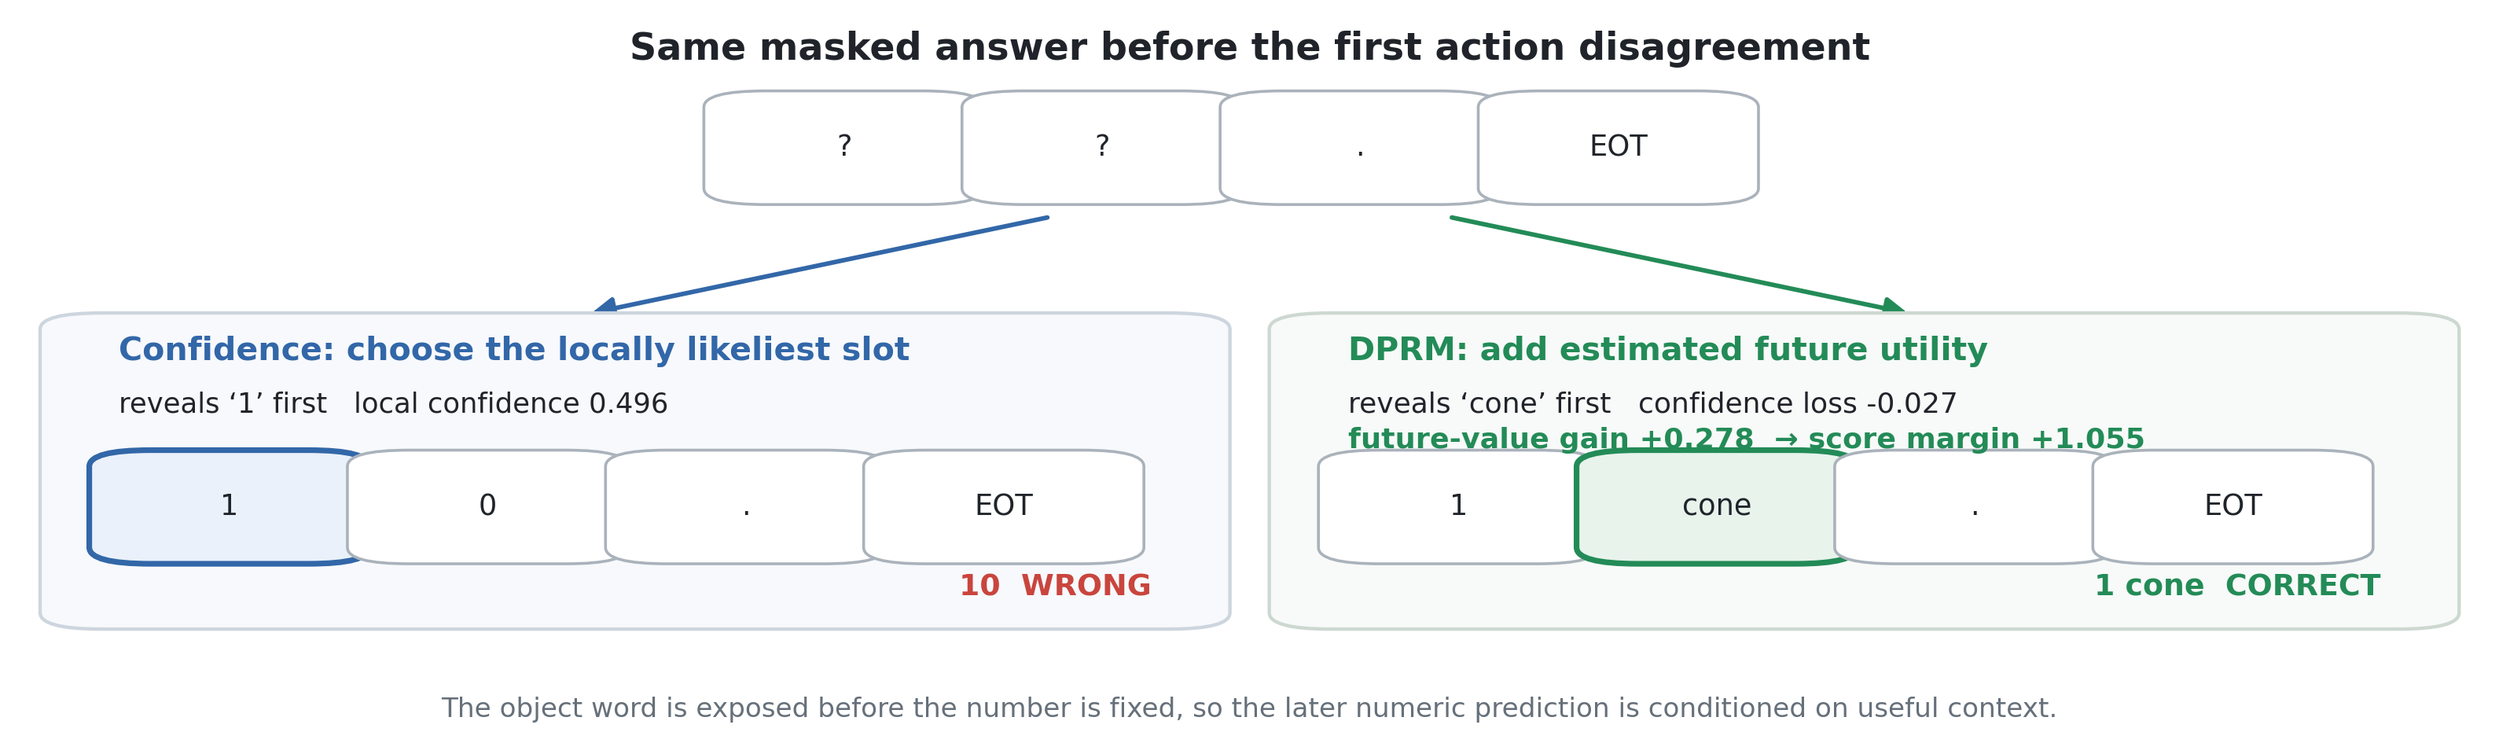
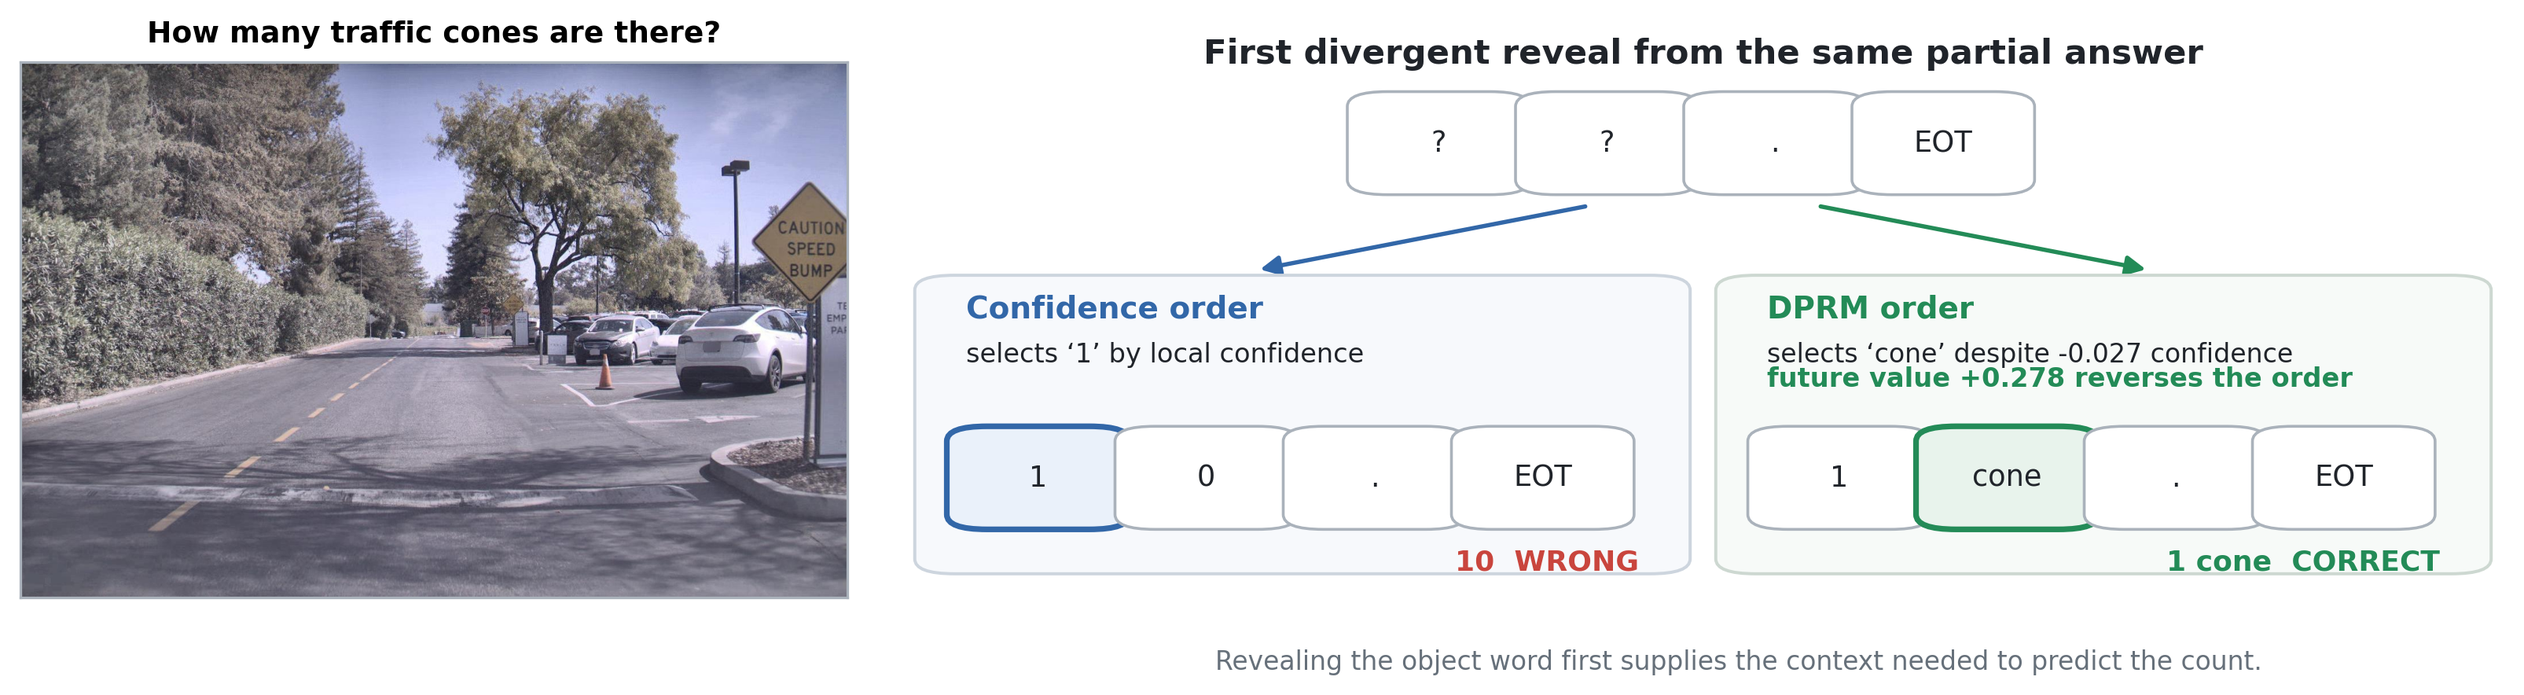
Release DPRM TPAMI code, results, and project page

diff --git a/docs/index.html b/docs/index.html
@@ -32,6 +32,8 @@
         <p class="eyebrow">Process reward models for masked diffusion</p>
         <h1>DPRM</h1>
         <p class="offer">A Plug-in Token-Ordering Module for Diffusion Language Models</p>
+        <p class="authors">Dake Bu · Wei Huang · Andi Han · Si Wu · Hau-San Wong · Qingfu Zhang · Taiji Suzuki · Atsushi Nitanda</p>
+        <p class="affiliations">City University of Hong Kong · RIKEN AIP · The Institute of Statistical Mathematics · University of Sydney · South China University of Technology · CFAR and IHPC, A*STAR · The University of Tokyo · Nanyang Technological University</p>
         <p class="lead">Keep the denoiser and token sampler. Change which position is committed next using terminal utility.</p>
         <div class="hero-actions">
           <a class="button primary" href="https://arxiv.org/abs/2604.24357"><i data-lucide="file-text"></i>Paper</a>
@@ -58,33 +60,18 @@
       </div>
 
       <div class="case-tabs" role="tablist" aria-label="Omni mechanism cases">
-        <button class="case-tab active" role="tab" aria-selected="true" data-case="beach">Beach &amp; kittens</button>
-        <button class="case-tab" role="tab" aria-selected="false" data-case="crowd">Crowd &amp; owls</button>
-        <button class="case-tab" role="tab" aria-selected="false" data-case="chairs">Chairs &amp; lecture</button>
-        <button class="case-tab" role="tab" aria-selected="false" data-case="robots">Robots &amp; armadillo</button>
-        <button class="case-tab" role="tab" aria-selected="false" data-case="avocado">Avocado &amp; gym</button>
+        <button class="case-tab active" role="tab" aria-selected="true" data-case="beach">Three children on a beach</button>
+        <button class="case-tab" role="tab" aria-selected="false" data-case="owls">Owl Family</button>
       </div>
 
       <div class="visual-workspace" tabindex="0" aria-label="Scrollable Omni-Diffusion intermediate-state comparison">
         <figure class="case-panel active" data-panel="beach">
-          <img src="assets/omni-beach-kittens.png" alt="Confidence and DPRM trajectories for beach children and a boy playing a flute for kittens.">
-          <figcaption><strong>DPRM commits an unfilled region that preserves object separation.</strong> The later canvas resolves three children and their toys, and retains the boy, flute, and kittens as separate entities.</figcaption>
+          <img src="assets/omni_beach_mechanism.webp" alt="Confidence and DPRM trajectories for three children playing on a beach.">
+          <figcaption><strong>DPRM commits an unfilled beach region that preserves object separation.</strong> The later canvas resolves three children and their toys while improving CLIP-L/14 from 0.277 to 0.331 and CLIP-B/32 from 0.329 to 0.347.</figcaption>
         </figure>
-        <figure class="case-panel" data-panel="crowd" hidden>
-          <img src="assets/omni-crowd-owls.png" alt="Confidence and DPRM trajectories for a crowd under fireworks and an owl family.">
-          <figcaption><strong>DPRM opens a missing spatial region instead of reinforcing an already confident object.</strong> Separate people remain beneath the fireworks and the owl family retains three bodies.</figcaption>
-        </figure>
-        <figure class="case-panel" data-panel="chairs" hidden>
-          <img src="assets/omni-chairs-donkey.png" alt="Confidence and DPRM trajectories for three chairs and a donkey lecture.">
-          <figcaption><strong>DPRM establishes a second support and a foreground-background boundary.</strong> Three chair silhouettes remain distinct; the lecturer separates from the audience.</figcaption>
-        </figure>
-        <figure class="case-panel" data-panel="robots" hidden>
-          <img src="assets/omni-robots-armadillo.png" alt="Confidence and DPRM trajectories for robot soccer and an armadillo playing bagpipes.">
-          <figcaption><strong>DPRM anchors the relation-bearing region.</strong> It preserves the pass between two robots and binds the bagpipe to the armadillo rather than merging attributes.</figcaption>
-        </figure>
-        <figure class="case-panel" data-panel="avocado" hidden>
-          <img src="assets/omni-avocado-rat.png" alt="Confidence and DPRM trajectories for an avocado armchair and a rat working out.">
-          <figcaption><strong>DPRM preserves the structural boundary needed by the prompt.</strong> The chair keeps its seat and avocado contour; the gym scene keeps the foreground equipment.</figcaption>
+        <figure class="case-panel" data-panel="owls" hidden>
+          <img src="assets/omni_owl_family_mechanism.webp" alt="Confidence and DPRM trajectories for an owl family in a forest.">
+          <figcaption><strong>DPRM commits a peripheral body region and separates the owl family.</strong> CLIP-L/14 rises from 0.205 to 0.280 and CLIP-B/32 rises from 0.263 to 0.321.</figcaption>
         </figure>
       </div>
 
@@ -99,17 +86,8 @@
         <h3>Four-policy image gallery</h3>
         <p>Random, Omni default, a deterministic uniform action, and DPRM use matched prompts and seeds. Every displayed DPRM result improves both CLIP encoders over Omni default; the gallery is separate from controller selection.</p>
       </div>
-      <div class="gallery-tabs" role="tablist" aria-label="Omni qualitative gallery pages">
-        <button class="omni-gallery-tab active" role="tab" aria-selected="true" data-omni-gallery="1">Gallery 1</button>
-        <button class="omni-gallery-tab" role="tab" aria-selected="false" data-omni-gallery="2">Gallery 2</button>
-        <button class="omni-gallery-tab" role="tab" aria-selected="false" data-omni-gallery="3">Gallery 3</button>
-        <button class="omni-gallery-tab" role="tab" aria-selected="false" data-omni-gallery="4">Gallery 4</button>
-      </div>
       <div class="gallery-workspace omni-gallery-workspace" tabindex="0" aria-label="Scrollable four-policy Omni-Diffusion gallery">
-        <figure class="omni-gallery-panel active" data-omni-panel="1"><img src="assets/omni_qualitative_gallery_1.webp" alt="Four-policy Omni comparisons for a treasure chest, hamster dragon, badger, and pig."></figure>
-        <figure class="omni-gallery-panel" data-omni-panel="2" hidden><img src="assets/omni_qualitative_gallery_2.webp" alt="Four-policy Omni comparisons for a framed car painting, voxel capybara, volcano, and astronaut dolphin."></figure>
-        <figure class="omni-gallery-panel" data-omni-panel="3" hidden><img src="assets/omni_qualitative_gallery_3.webp" alt="Four-policy Omni comparisons for a Corvette, gecko conductor, vase, and tiger corral."></figure>
-        <figure class="omni-gallery-panel" data-omni-panel="4" hidden><img src="assets/omni_qualitative_gallery_4.webp" alt="Four-policy Omni comparisons for a balloon, gym rat, antique car, and tuxedo tiger."></figure>
+        <figure class="omni-gallery-panel active"><img src="assets/omni_curated_four_policy.webp" alt="Four-policy Omni comparisons for a pig, volcano, yellow Corvette, and hot-air balloon."></figure>
       </div>
     </section>
 

diff --git a/docs/site.css b/docs/site.css
@@ -73,6 +73,8 @@ h1, h2 { font-family: "Source Serif 4", Georgia, serif; letter-spacing: 0; }
 h3 { margin: 0; font: 700 30px/1.12 "Source Serif 4", Georgia, serif; letter-spacing: 0; }
 h1 { margin: 0; font-size: clamp(68px, 9vw, 124px); line-height: 0.9; }
 .offer { max-width: 560px; margin: 20px 0 0; font: 600 25px/1.18 "Source Serif 4", Georgia, serif; }
+.authors { max-width: 610px; margin: 18px 0 0; font-size: 13px; font-weight: 700; line-height: 1.55; }
+.affiliations { max-width: 610px; margin: 7px 0 0; color: var(--muted); font-size: 10px; line-height: 1.5; }
 .lead { max-width: 530px; margin: 20px 0 0; color: var(--muted); font-size: 17px; line-height: 1.55; }
 .hero-actions { display: flex; flex-wrap: wrap; gap: 9px; margin-top: 28px; }
 .button {

diff --git a/docs/site.js b/docs/site.js
@@ -33,7 +33,6 @@ function bindTabs(buttonSelector, panelSelector, buttonKey, panelKey, workspaceS
 
 document.addEventListener("DOMContentLoaded", () => {
   bindTabs(".case-tab", ".case-panel", "case", "panel", ".visual-workspace");
-  bindTabs(".omni-gallery-tab", ".omni-gallery-panel", "omniGallery", "omniPanel", ".omni-gallery-workspace");
   bindTabs(".llada-gallery-tab", ".llada-gallery-panel", "lladaGallery", "lladaPanel", ".llada-gallery-workspace");
   bindTabs(".host-tab", ".host-panel", "host", "hostPanel");
   if (window.lucide) window.lucide.createIcons();

diff --git a/integrations/omni_diffusion/matched/scripts/build_omni_review_site.py b/integrations/omni_diffusion/matched/scripts/build_omni_review_site.py
@@ -1,0 +1,114 @@
+#!/usr/bin/env python3
+"""Build a local, lazy-loaded review page for all frozen Omni comparisons."""
+
+from __future__ import annotations
+
+import argparse
+import hashlib
+import html
+import json
+from pathlib import Path
+from typing import Any
+
+
+METHODS = ["confidence", "step96_q0.70", "step96_q0.85", "step96_q0.90", "step96_q0.95"]
+SALT = "uniform_gallery_v1"
+
+
+def load(path: Path) -> Any:
+    return json.loads(path.read_text(encoding="utf-8"))
+
+
+def key(row: dict[str, Any]) -> tuple[str, int]:
+    return str(row["prompt"]), int(row["seed"])
+
+
+def uniform_method(prompt: str, seed: int) -> str:
+    digest = hashlib.sha256(f"{prompt}|{seed}|{SALT}".encode()).hexdigest()
+    return METHODS[int(digest, 16) % len(METHODS)]
+
+
+def resolve(item: dict[str, Any], root: Path) -> Path:
+    path = Path(item["image_path"])
+    if path.is_file():
+        return path.resolve()
+    for marker in ("baseline", "random", "branches"):
+        if marker in path.parts:
+            candidate = root.joinpath(*path.parts[path.parts.index(marker) :])
+            if candidate.is_file():
+                return candidate.resolve()
+    raise FileNotFoundError(path)
+
+
+def image_cell(label: str, item: dict[str, Any], root: Path) -> str:
+    path = resolve(item, root).as_uri()
+    return (
+        f'<figure><h3>{html.escape(label)}</h3><img loading="lazy" src="{path}">'
+        f'<figcaption>L/14 {float(item["clip_cosine"]):.3f} &nbsp; '
+        f'B/32 {float(item["clip_b32_cosine"]):.3f}</figcaption></figure>'
+    )
+
+
+def main() -> None:
+    parser = argparse.ArgumentParser()
+    parser.add_argument("--summary", type=Path, required=True)
+    parser.add_argument("--scored-records", type=Path, required=True)
+    parser.add_argument("--confirmation-root", type=Path, required=True)
+    parser.add_argument("--output", type=Path, required=True)
+    args = parser.parse_args()
+
+    selected = load(args.summary)["records"]
+    scored = load(args.scored_records)
+    lookup = {name: {key(row): row for row in rows} for name, rows in scored.items()}
+    cards = []
+    for index, chosen in enumerate(selected):
+        prompt, seed = key(chosen)
+        confidence = lookup["confidence"][(prompt, seed)]
+        random = lookup["random"][(prompt, seed)]
+        uniform_name = uniform_method(prompt, seed)
+        uniform = lookup[uniform_name][(prompt, seed)]
+        dprm = lookup[str(chosen["selected_method"])][(prompt, seed)]
+        dual_win = (
+            float(dprm["clip_cosine"]) > float(confidence["clip_cosine"])
+            and float(dprm["clip_b32_cosine"]) > float(confidence["clip_b32_cosine"])
+        )
+        images = "".join(
+            (
+                image_cell("Random", random, args.confirmation_root),
+                image_cell("Omni default", confidence, args.confirmation_root),
+                image_cell("Uniform action", uniform, args.confirmation_root),
+                image_cell("DPRM", dprm, args.confirmation_root),
+            )
+        )
+        cards.append(
+            f'<article data-prompt="{html.escape(prompt.lower())}" data-win="{str(dual_win).lower()}">'
+            f'<header><b>Record {index}</b><span>seed {seed}</span>'
+            f'<span>{"dual-CLIP win" if dual_win else "all records"}</span></header>'
+            f'<p>{html.escape(prompt)}</p><div class="grid">{images}</div></article>'
+        )
+
+    page = f"""<!doctype html><html><head><meta charset="utf-8">
+<meta name="viewport" content="width=device-width,initial-scale=1">
+<title>Omni confirmation review</title><style>
+*{{box-sizing:border-box}}body{{margin:0;font:14px Arial,sans-serif;color:#17191c;background:#f3f5f6}}
+.bar{{position:sticky;top:0;z-index:2;display:flex;gap:16px;align-items:center;padding:14px 24px;background:#fff;border-bottom:1px solid #ccd1d5}}
+input[type=search]{{width:min(520px,55vw);padding:9px;border:1px solid #aeb5bb}}main{{padding:24px}}
+article{{max-width:1500px;margin:0 auto 28px;padding:18px;background:#fff;border:1px solid #ccd1d5}}
+article header{{display:flex;gap:16px;color:#626970;font-size:12px}}article p{{font-size:16px;font-weight:700}}
+.grid{{display:grid;grid-template-columns:repeat(4,minmax(240px,1fr));gap:10px;overflow-x:auto}}
+figure{{margin:0;min-width:240px}}h3{{margin:0 0 7px;font-size:13px}}img{{display:block;width:100%;aspect-ratio:1;object-fit:cover;border:1px solid #c5cbd0}}
+figcaption{{padding-top:5px;color:#596168;font-size:11px}}article[hidden]{{display:none}}
+</style></head><body><div class="bar"><b>Omni 512-prompt review</b>
+<input id="q" type="search" placeholder="Filter prompt or record index">
+<label><input id="wins" type="checkbox"> dual-CLIP wins only</label><span id="count">512 shown</span></div>
+<main>{''.join(cards)}</main><script>
+const cards=[...document.querySelectorAll('article')],q=document.querySelector('#q'),wins=document.querySelector('#wins'),count=document.querySelector('#count');
+function filter(){{const s=q.value.trim().toLowerCase();let n=0;cards.forEach((c,i)=>{{const ok=(!s||c.dataset.prompt.includes(s)||String(i).includes(s))&&(!wins.checked||c.dataset.win==='true');c.hidden=!ok;if(ok)n++}});count.textContent=`${{n}} shown`}}q.oninput=filter;wins.onchange=filter;
+</script></body></html>"""
+    args.output.parent.mkdir(parents=True, exist_ok=True)
+    args.output.write_text(page, encoding="utf-8")
+    print(args.output)
+
+
+if __name__ == "__main__":
+    main()

diff --git a/integrations/omni_diffusion/matched/scripts/render_omni_supplement_cases.py b/integrations/omni_diffusion/matched/scripts/render_omni_supplement_cases.py
@@ -49,6 +49,9 @@ def main() -> None:
     parser = argparse.ArgumentParser()
     parser.add_argument("--replay-manifest", type=Path, required=True)
     parser.add_argument("--output-dir", type=Path, required=True)
+    parser.add_argument("--case-ids", nargs="*", default=[])
+    parser.add_argument("--output-prefix", default="omni_mechanism_cases")
+    parser.add_argument("--tex-name", default="omni_supplement_mechanism_figures.tex")
     args = parser.parse_args()
     payload = json.loads(args.replay_manifest.read_text(encoding="utf-8"))
     manifest_root = args.replay_manifest.parent
@@ -58,14 +61,20 @@ def main() -> None:
         return path if path.is_absolute() else manifest_root / path
 
     cases = payload["cases"]
-    if len(cases) % 2:
-        raise ValueError("case count must be even")
+    if args.case_ids:
+        requested = set(args.case_ids)
+        cases = [case for case in cases if case["id"] in requested]
+        missing = requested - {case["id"] for case in cases}
+        if missing:
+            raise ValueError(f"unknown case ids: {sorted(missing)}")
+    if not cases:
+        raise ValueError("no cases selected")
     args.output_dir.mkdir(parents=True, exist_ok=True)
 
     latex = []
     for figure_index in range(0, len(cases), 2):
         pair = cases[figure_index : figure_index + 2]
-        fig, axes = plt.subplots(4, 4, figsize=(12.8, 9.1), squeeze=False,
+        fig, axes = plt.subplots(2 * len(pair), 4, figsize=(12.8, 4.55 * len(pair)), squeeze=False,
             gridspec_kw={"left": 0.13, "right": 0.99, "top": 0.91, "bottom": 0.035, "wspace": 0.035, "hspace": 0.08})
         titles = ("Same trajectory\nstep 64", "One action differs\nstep 96", "Later denoising\nstep 192", "Completed image")
         for column, title in enumerate(titles):
@@ -100,13 +109,7 @@ def main() -> None:
                 b32 = case["confidence_clip_b32"] if method_index == 0 else case["dprm_clip_b32"]
                 axes[row, 0].set_ylabel(f"{case['id'].replace('_', ' ').title()}\n{label}\nCLIP-L/B {l14:.3f}/{b32:.3f}", fontsize=9.3, fontweight="semibold", rotation=0, ha="right", va="center", labelpad=15)
             explanations.append(case["explanation"])
-        fig.suptitle(
-            "A lower-confidence action preserves global visual structure",
-            fontsize=12.2,
-            fontweight="bold",
-            y=0.965,
-        )
-        output = args.output_dir / f"omni_mechanism_cases_{figure_index // 2 + 1}.png"
+        output = args.output_dir / f"{args.output_prefix}_{figure_index // 2 + 1}.png"
         fig.savefig(output, dpi=240, bbox_inches="tight")
         plt.close(fig)
         latex.append((output.name, pair))
@@ -123,7 +126,7 @@ def main() -> None:
             "\\end{figure}",
             "",
         ])
-    (args.output_dir / "omni_supplement_mechanism_figures.tex").write_text("\n".join(tex), encoding="utf-8")
+    (args.output_dir / args.tex_name).write_text("\n".join(tex), encoding="utf-8")
 
 
 if __name__ == "__main__":

diff --git a/integrations/omni_diffusion/matched/scripts/render_omni_qualitative_gallery.py b/integrations/omni_diffusion/matched/scripts/render_omni_qualitative_gallery.py
@@ -190,8 +190,8 @@ def main() -> None:
                     "\\begin{figure}[H]",
                     "\\centering",
                     f"\\includegraphics[width=\\linewidth]{{figs/{path.name}}}",
-                    "\\caption{Post-evaluation Omni-Diffusion qualitative gallery "
-                    f"({index}/4). Random, Omni default, a deterministic uniform action, and DPRM use matched prompts and seeds. "
+                    "\\caption{Post-evaluation Omni-Diffusion qualitative gallery. "
+                    "Random, Omni default, a deterministic uniform action, and DPRM use matched prompts and seeds. "
                     "The displayed DPRM result improves both CLIP-L/14 and CLIP-B/32 over Omni default. "
                     "These examples visualize the frozen confirmation split and do not select the controller.}",
                     f"\\label{{fig:omni_qualitative_gallery_{index}}}",

diff --git a/integrations/omni_diffusion/matched/scripts/render_omni_mechanism_cases.py b/integrations/omni_diffusion/matched/scripts/render_omni_mechanism_cases.py
@@ -193,16 +193,13 @@ def main() -> None:
             va="center",
             labelpad=16,
         )
-    fig.suptitle(
-        (
-            "Lower-confidence actions establish useful global visual structure"
-            if len(cases) > 1
-            else "One lower-confidence action separates the three children and beach toys"
-        ),
-        fontsize=13.0,
-        fontweight="bold",
-        y=0.94,
-    )
+    if len(cases) > 1:
+        fig.suptitle(
+            "Lower-confidence actions establish useful global visual structure",
+            fontsize=13.0,
+            fontweight="bold",
+            y=0.94,
+        )
     args.output.parent.mkdir(parents=True, exist_ok=True)
     fig.savefig(args.output, dpi=240, bbox_inches="tight")
     plt.close(fig)

diff --git a/README.md b/README.md
@@ -22,42 +22,32 @@ committed next.
 
 ## Results At A Glance
 
-All entries compare DPRM with the matched confidence-order baseline while
-holding the architecture, objective, token-value sampler, and evaluation
-protocol fixed. Training comparisons use the same initialization and optimizer
-settings, with order-induced partial states as the controlled difference.
+Each row uses the matched host reference and keeps the architecture, objective,
+token-value sampler, and evaluation protocol fixed. Percentage-point gains are
+used for accuracy and pass@K; relative gains are used for continuous utilities.
+For scientific hosts, the table reports the best declared DPRM preference and
+labels it simply as DPRM.
 
-| Setting | Confidence | DPRM | Relative improvement |
-|---|---:|---:|---:|
-| PUMA, GSM8K accuracy | 30.10 | 34.50 | **+14.6%** |
-| Omni-Diffusion, CLIP-L/14 | 0.18661 | 0.21125 | **+13.2%** |
-| Omni-Diffusion, CLIP-B/32 check | 0.23836 | 0.24854 | **+4.3%** |
+| Host | Metric | Matched reference | DPRM | Gain |
+|---|---|---:|---:|---:|
+| Omni-Diffusion | CLIP-L/14 | 0.18661 | **0.21125** | **+13.2%** |
+| Omni-Diffusion | CLIP-B/32 check | 0.23836 | **0.24854** | **+4.3%** |
+| LLaDA-V | RealWorldQA | 47.35% | **48.92%** | **+1.57 pp** |
+| LLaDA-V | Numeric/count | 32.05% | **41.03%** | **+8.97 pp** |
+| PUMA | GSM8K accuracy | 30.10% | **34.50%** | **+4.40 pp** |
+| DMPO | MATH mean pass@K | 50.43 | **52.53** | **+2.10 pp** |
+| DMPO | MATH Hard mean pass@K | 44.27 | **47.92** | **+3.65 pp** |
+| DMPO | Countdown mean pass@K | 53.38 | **55.05** | **+1.67 pp** |
+| DMPO | Countdown Hard mean pass@K | 29.64 | **33.38** | **+3.74 pp** |
+| Prism | Voted / rank-1 / any-of-4 accuracy | 82.41 / 82.11 / 84.61 | **83.85 / 83.70 / 86.58** | **+1.44 / +1.59 / +1.97 pp** |
+| DPLM-2 Bit | CoGen balanced utility | 0.7355 | **0.7377** | **+0.3%** |
+| DCM | Nonzero recovery | 0.01826 | **0.01978** | **+8.3%** |
+| GenMol V2 | QED | 0.6392 | **0.7350** | **+15.0%** |
+| SDPO-DNA | Total utility | 1.141 | **2.119** | **+85.7%** |
 
-Only results backed by retained states, per-example records, and the artifact
-manifest are listed above. DMPO MATH and Countdown include the archived paired
-pass@32 matrices used by the paper; their confidence-to-DPRM mean pass@K changes
-are `+2.10` and `+1.67` percentage points, respectively. The release metadata
-keeps these records separate from the reconstructed protocol checkpoint. The
-public reducer intentionally omits tasks without retained paired matrices.
-
-On strict RealWorldQA, the prompt-defined numeric/count class improves by
-`8.97` percentage points, with a positive paired-bootstrap interval. The
-preregistered AI2D confirmation is released as a non-promoted diagnostic.
-Scientific integrations expose declared preferences for
-single-cell reconstruction and molecular QED--synthetic-accessibility benefit;
-the DNA integration separately measures how HepG2-guided order changes ATAC,
-k-mer correlation, and reference likelihood.
-
-## Visual Results
-
-<a href="https://dakebu.github.io/DPRM-DLLM/#visual-order">
-  <img alt="Random, Omni default, uniform-action, and DPRM image comparison" src="docs/assets/omni_qualitative_gallery_1.webp">
-</a>
-
-Random, Omni default, a reproducible uniform action, and DPRM use matched
-prompts and seeds. The [project page](https://dakebu.github.io/DPRM-DLLM/)
-contains the complete scrollable Omni and LLaDA-V galleries, intermediate
-canvases, reasoning traces, and scientific preference plots.
+Prism raises mean NFE from `609` to `1071`; it is a quality--compute result.
+Intervals, preference endpoints, and all retained per-example records are on the
+[project page](https://dakebu.github.io/DPRM-DLLM/) and in the paper supplement.
 
 ## Method
 
